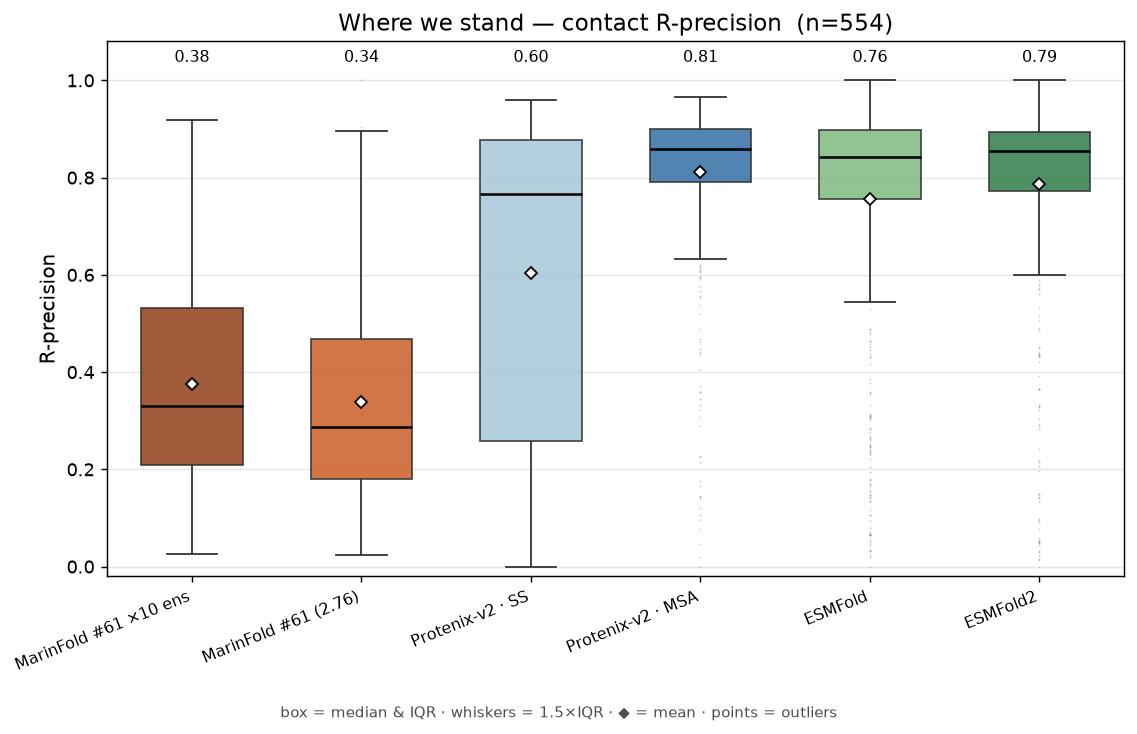
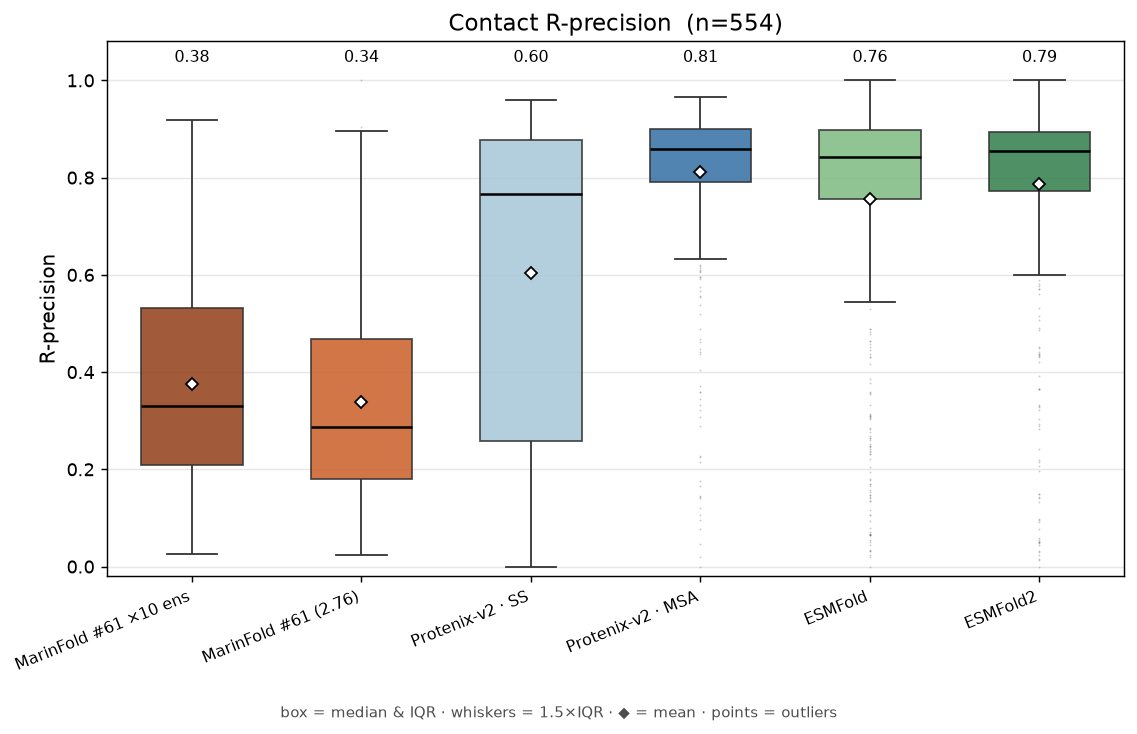
exp89: drop 'Where we stand' from the headline plot title

Changed region(s): [[0.3078, 0.0, 0.8004, 0.0599]]

diff --git a/experiments/exp89_evals_contacts_v1_model_on_eval_set/plot.py b/experiments/exp89_evals_contacts_v1_model_on_eval_set/plot.py
@@ -234,7 +234,7 @@ def main(precision_csv: Path, out_dir: Path) -> None:
     plot_single_panel(
         df, out_dir / "where_we_stand_rprecision.png", cut="R", rng="all", script_args=sa,
         configs=[c for c in CONFIGS if c[0] != "marinfold-cv1-exp67"],
-        title="Where we stand — contact R-precision  (n=554)")
+        title="Contact R-precision  (n=554)")
     print(f"wrote plots to {out_dir}")
 
 